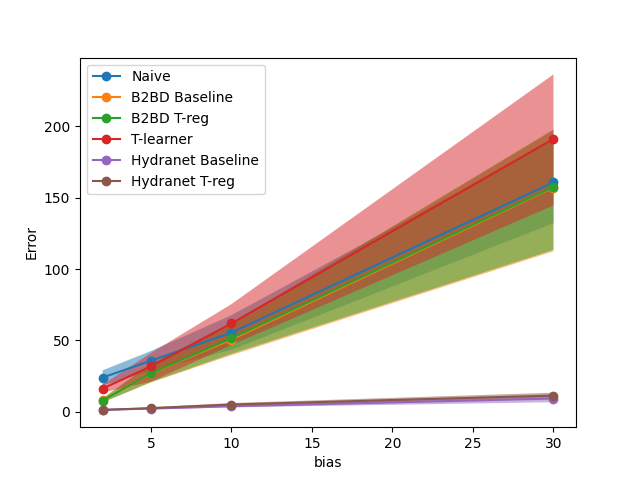
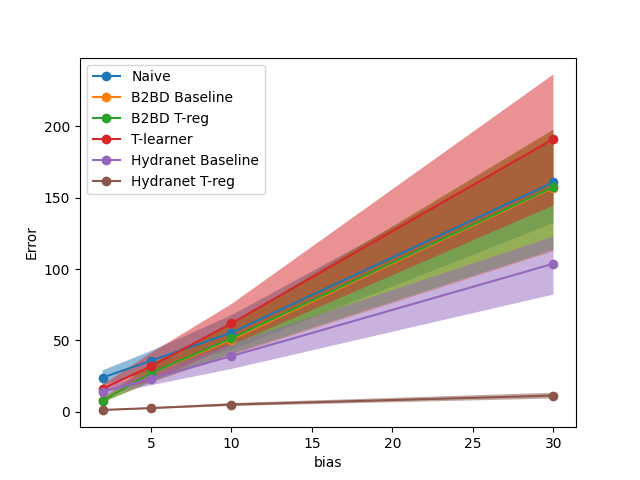
Implement baseline DR estimator option

Changed region(s): [[0.1562, 0.5, 0.875, 0.875], [0.4688, 0.8125, 0.875, 0.8438], [0.2812, 0.8438, 0.4688, 0.875]]

diff --git a/Code/main.py b/Code/main.py
@@ -434,8 +434,14 @@ def collect_results_syn(input_dir):
                         # Model level (when applicable)
                         base_dat_path = os.path.join(estim_dat_path, model, ('0_replication_' + split + '.npz'))
                         q_t0, q_t1, q_t2, q_t3, q_t4, g, y, t, index = load_data(base_dat_path)
+
                         # Compute estimator
-                        psi = psi_naive(q_t0, q_t1, q_t2, q_t3, q_t4, g,truncate_level=0.)
+                        dr_flag = False # Flag for using aiptw for a doubly robust estimator with baseline hydranet
+
+                        if model=='baseline' and dr_flag:
+                            psi = psi_aiptw(q_t0, q_t1, q_t2, q_t3, q_t4, g, t, y,truncate_level=0.)
+                        else:
+                            psi = psi_naive(q_t0, q_t1, q_t2, q_t3, q_t4, g, truncate_level=0.)
 
                         result_dict[split][estim][model].append(psi)
 

diff --git a/Code/Estimation/estimators.py b/Code/Estimation/estimators.py
@@ -38,12 +38,12 @@ def psi_aiptw(q_t0, q_t1, q_t2, q_t3, q_t4, g, t, y, truncate_level=0.05):
     q_t0, q_t1, q_t2, q_t3, q_t4, g, t, y = truncate_all_by_g(q_t0, q_t1, q_t2, q_t3, q_t4, g, t, y, truncate_level)
 
     t = t.flatten()
-    encoded_t = np.zeros((t.size, t.max() + 1))
-    encoded_t[np.arange(t.size), t] = 1
+    encoded_t = np.zeros((int(t.size), int(t.max()) + 1))
+    encoded_t[np.arange(int(t.size)), t.astype(int)] = 1
 
     fullq = np.sum(np.concatenate([q_t0, q_t1, q_t2, q_t3, q_t4], axis=1) * encoded_t, axis=1)
 
-    g = g.reshape(max(t) + 1, len(y)).T
+    g = g.reshape(int(max(t)) + 1, len(y)).T
     g_t = encoded_t * (1 / g)
 
     h1_0 = g_t[:, 1] - g_t[:, 0]

diff --git a/Code/Helpers/helper_funcs.py b/Code/Helpers/helper_funcs.py
@@ -156,7 +156,7 @@ def truncate_all_by_g(q_t0, q_t1, q_t2, q_t3, q_t4, g, t, y, truncate_level=0.05
 
     """
 
-    g = g.reshape((max(t) + 1)[0], len(y)).T
+    g = g.reshape((int(max(t)) + 1), len(y)).T
 
     g_ind = np.sum(g < truncate_level, axis=1)
 
